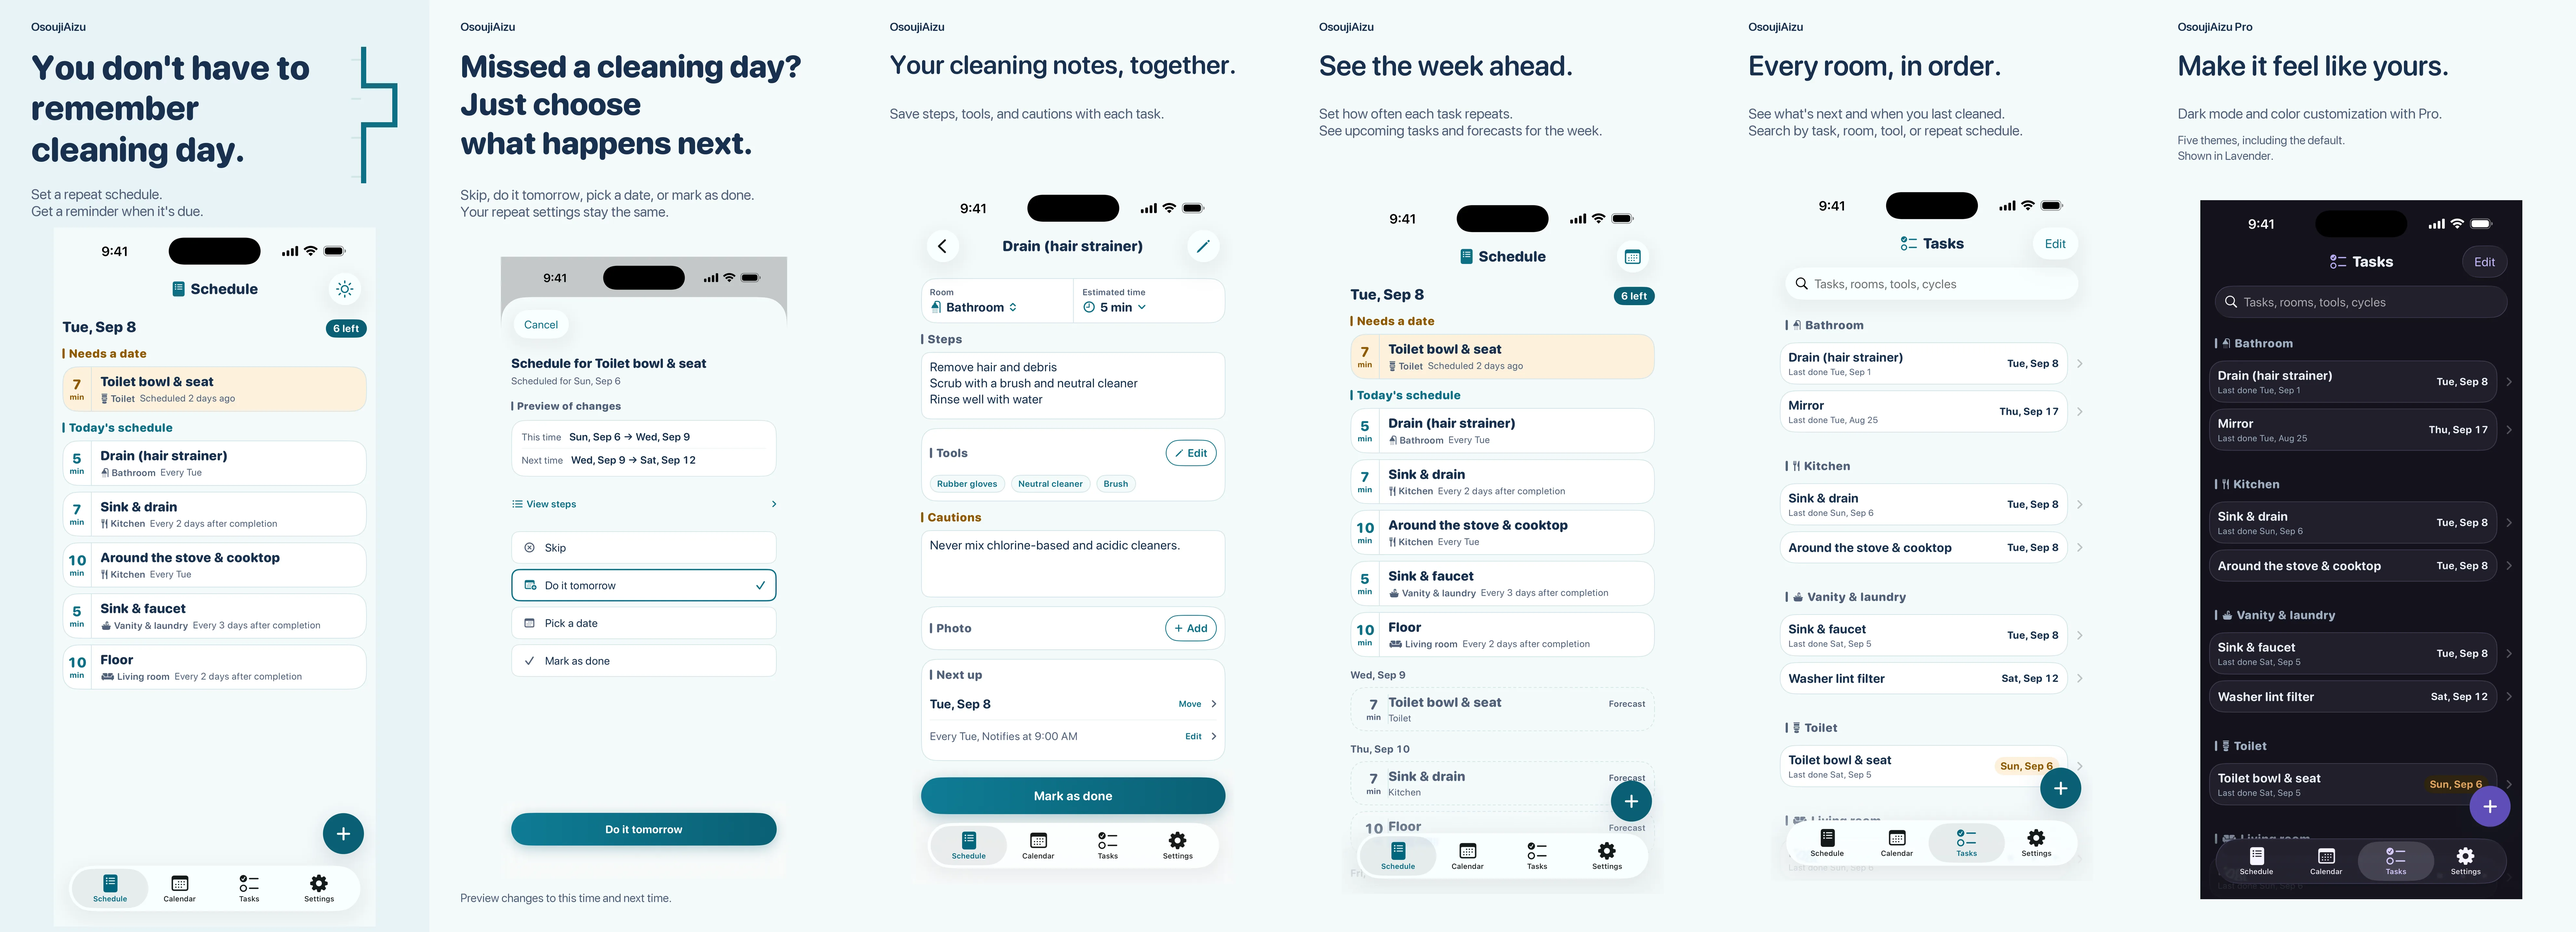
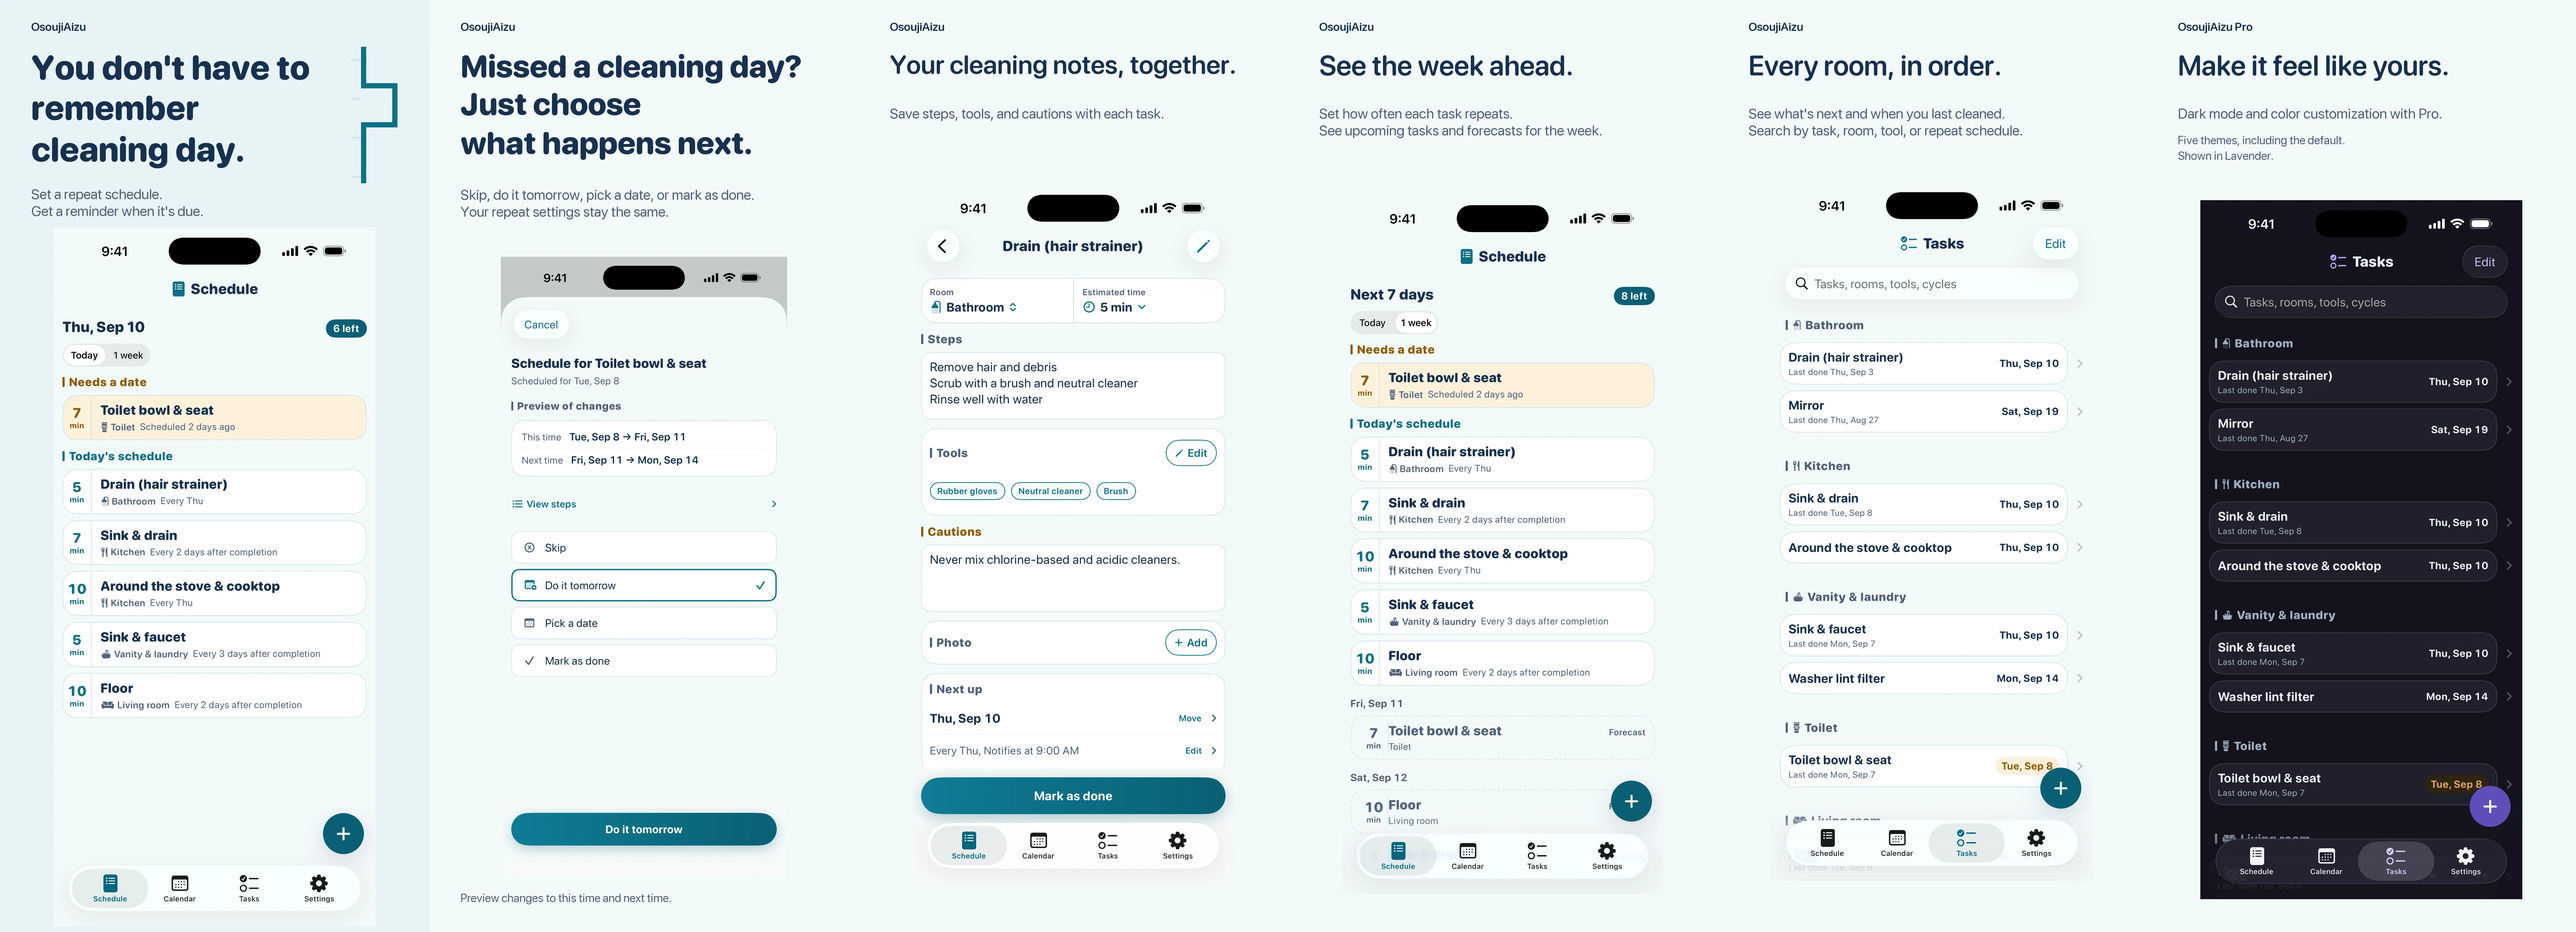
おそうじ合図: 訴求画像を 2026-09-10 版に差し替え、プライバシーの文面を実挙動に合わせる
- スクリーンショット4本（日英・1x/@2x）を、2026-09-10 に作り直した訴求画像から再生成
- index / en/index が「すべて端末内にのみ保存」と断定したままで、iCloud 同期・共有と
  矛盾していた。審査はマーケティング URL を見るため、事実に合わせて書き直す
  （support.html は 09-08 の時点で既に正しかったので触っていない）
- meta description も同じ理由で修正

Claude-Session: https://claude.ai/code/session_01PemQtVUBi2TPc1iWQ6jLR3

diff --git a/osoujiaizu/index.html b/osoujiaizu/index.html
@@ -4,7 +4,7 @@
 <meta charset="UTF-8">
 <meta name="viewport" content="width=device-width, initial-scale=1">
 <title>TempuraApps | おそうじ合図 — 掃除する日を、覚えておかなくていい。</title>
-<meta name="description" content="タスクごとに手順・道具・注意点を残し、周期を決めておくと、予定の日に通知でお知らせ。できなかった日は「明日にやる」など選び直すだけで、周期は変わりません。見つけた汚れは1回だけのタスクとしてその場で登録。記録は端末内だけ、アカウント不要・広告なしのiPhone向け掃除アプリ。">
+<meta name="description" content="タスクごとに手順・道具・注意点を残し、周期を決めておくと、予定の日に通知でお知らせ。できなかった日は「明日にやる」など選び直すだけで、周期は変わりません。見つけた汚れは1回だけのタスクとしてその場で登録。記録は端末内（Proならご自身のiCloudにも）、アカウント不要・広告なしのiPhone向け掃除アプリ。">
 <meta name="theme-color" content="#F6F9FD" media="(prefers-color-scheme: light)">
 <meta name="theme-color" content="#11161D" media="(prefers-color-scheme: dark)">
 <link rel="canonical" href="https://tempuraapps.github.io/osoujiaizu/">
@@ -379,8 +379,8 @@
   <section class="privacy" aria-labelledby="privacy-h">
     <div class="wrap">
       <div class="privacy-box">
-        <h2 id="privacy-h"><span class="nowrap">掃除の記録は、</span><span class="nowrap">あなたの端末の中に</span></h2>
-        <p>タスク・手順・使う道具・注意点・周期・写真・掃除の記録は、すべて端末内にのみ保存されます。アカウント登録やログインは不要で、これらの記録が当方のサーバーへ送られることはありません。詳細は<a href="./privacy.html">プライバシーポリシー</a>をご覧ください。</p>
+        <h2 id="privacy-h"><span class="nowrap">掃除の記録は、</span><span class="nowrap">あなたの手元に</span></h2>
+        <p>タスク・手順・使う道具・注意点・周期・写真・掃除の記録は、端末内に保存されます。アカウント登録やログインは不要で、これらの記録が当方のサーバーへ送られることはありません。「iCloudで同期」（Pro機能）をオンにすると、ご自身のiCloudにも保存され、同じApple IDのiPhoneや、共有した家族のあいだでそろいます。詳細は<a href="./privacy.html">プライバシーポリシー</a>をご覧ください。</p>
       </div>
     </div>
   </section>

diff --git a/osoujiaizu/en/index.html b/osoujiaizu/en/index.html
@@ -4,7 +4,7 @@
 <meta charset="UTF-8">
 <meta name="viewport" content="width=device-width, initial-scale=1">
 <title>TempuraApps | OsoujiAizu — You don't have to remember cleaning day.</title>
-<meta name="description" content="Keep the steps, tools, and cautions for each cleaning task, set a cycle, and get notified on the day. Couldn't do it? Skip it, do it tomorrow, pick a date, or mark it done — your cycle never changes on its own. Spotted some grime? Add it as a one-off. Everything stays on your iPhone — no account, no ads.">
+<meta name="description" content="Keep the steps, tools, and cautions for each cleaning task, set a cycle, and get notified on the day. Couldn't do it? Skip it, do it tomorrow, pick a date, or mark it done — your cycle never changes on its own. Spotted some grime? Add it as a one-off. Everything stays on your iPhone, or in your own iCloud with Pro — no account, no ads.">
 <meta name="theme-color" content="#F6F9FD" media="(prefers-color-scheme: light)">
 <meta name="theme-color" content="#11161D" media="(prefers-color-scheme: dark)">
 <link rel="canonical" href="https://tempuraapps.github.io/osoujiaizu/en/">
@@ -375,8 +375,8 @@
   <section class="privacy" aria-labelledby="privacy-h">
     <div class="wrap">
       <div class="privacy-box">
-        <h2 id="privacy-h">Your cleaning records stay on your device</h2>
-        <p>Your tasks, their steps, tools, cautions, cycles, photos, and cleaning records are stored only on your device. No account or sign-in is required, and none of this content is ever sent to our servers. See the <a href="./privacy.html">Privacy Policy</a> for details.</p>
+        <h2 id="privacy-h">Your cleaning records stay with you</h2>
+        <p>Your tasks, their steps, tools, cautions, cycles, photos, and cleaning records are stored on your device. No account or sign-in is required, and none of this content is ever sent to our servers. If you turn on iCloud Sync (a Pro feature), they are also stored in your own iCloud, so they stay in step across your iPhones and with the family members you share with. See the <a href="./privacy.html">Privacy Policy</a> for details.</p>
       </div>
     </div>
   </section>
